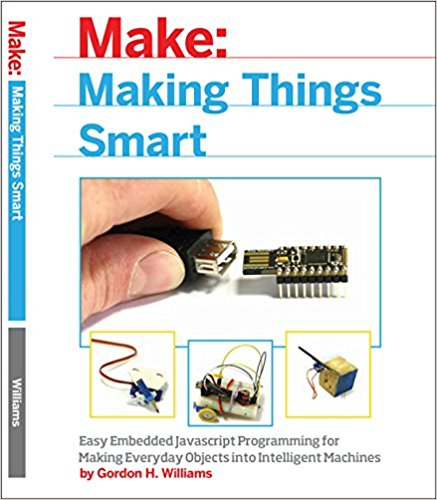
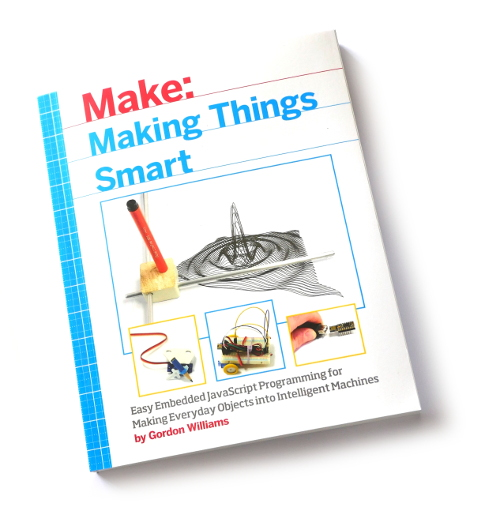
description, and up to date cover photo

diff --git a/README.md b/README.md
@@ -2,25 +2,47 @@
 
 [!['Making Things Smart' book](cover.jpg)](http://shop.oreilly.com/product/0636920031246.do)
 
-Extra information for the ['Making Things Smart' book by Gordon Williams](http://shop.oreilly.com/product/0636920031246.do) (available from [O'Reilly](http://shop.oreilly.com/product/0636920031246.do) and [Amazon](https://www.amazon.co.uk/Making-Things-Smart-Programming-Transforming/dp/1680451898))
+Extra information for the ['Making Things Smart' book by Gordon Williams](http://shop.oreilly.com/product/0636920031246.do) (available from [O'Reilly](http://shop.oreilly.com/product/0636920031246.do) and [Amazon](https://www.amazon.com/gp/product/1680451898/ref=as_li_tl?ie=UTF8&camp=1789&creative=9325&creativeASIN=1680451898&linkCode=as2&tag=espruino-20&linkId=9a3b6e7c3a4f24c8f894e6a039828502))
 
 This code is designed for [Espruino JavaScript Microcontroller boards](http://www.espruino.com/Order)
 
 ## Code Examples
 
-### Chapter 5
+### Chapter 1 - Introduction
+
+An introduction to the book.
+
+### Chapter 2 - What is a Microcontroller?
+
+How is a microcontroller different to a normal PC? What is an ARM, some history of microcontrollers, and how is it different to 8 bit AVR microcontrollers used in many Arduino boards?
+
+### Chapter 3 - Getting Started with Espruino
+
+How to get your Espruino board up and running and issue your first commands.
+
+### Chapter 4 - Getting Started with JavaScript
+
+An introduction to JavaScript for readers with experience of other languages.
+
+### Chapter 5 - Motors
+
+Making motors, and controlling stepper motors.
 
 * [Experiment 4 Part 1](experiment4a.js)
 * [Experiment 4 Part 2](experiment4b.js)
 * [Experiment 5](experiment5.js)
 
-### Chapter 6
+### Chapter 6 - Stroboscopes
+
+Connecting a PC fan to an Espruino, and lighting the fan at exactly the same point at every revolution.
 
 * [Experiment 6](experiment6.js)
 * [Experiment 7](experiment7.js)
 * [Experiment 8](experiment8.js)
 
-### Chapter 7
+### Chapter 7 - John Logie Baird's TV
+
+Using the PC fan with more markers to create a low-resolution TV.
 
 * [Experiment 9 Part 1](experiment9a.js)
 * [Experiment 9 Part 2](experiment9b.js)
@@ -29,29 +51,46 @@ This code is designed for [Espruino JavaScript Microcontroller boards](http://ww
 * [Experiment 10 Part 1](experiment10a.js)
 * [Experiment 10 Part 2](experiment10b.js)
 
-### Chapter 8
+### Chapter 8 - Making a Simple Robot
+
+Make a robot using two continuous-rotation servo motors and a piece of breadboard.
 
 * [Experiment 11](experiment11.js)
 * [Experiment 12](experiment12.js)
 * [Experiment 13](experiment13.js)
 
-### Chapter 9
+### Chapter 9 - Pen Plotter
+
+Using two servo motors, create a simple pen plotter.
 
 * [Experiment 14 Part 1](experiment14a.js)
 * [Experiment 14 Part 2](experiment14b.js)
 * [Experiment 14 Part 3](experiment14c.js)
 * [Experiment 14 Part 4](experiment14d.js)
 
-### Chapter 10
+### Chapter 10 - Digital Pinhole Camera
+
+With two servo motors and a light sensor, create a low-resolution camera.
 
 * [Experiment 15](experiment15.js)
 
-### Chapter 11
+### Chapter 11 - Printer
+
+Create a printer with a cardboard tube, threaded bar, and servo motors.
 
 * [Experiment 16](experiment16.js)
 
 
-### Chapter 13
+### Chapter 12 - Wired Communication
+
+The oscilloscope used in this chapter is available from:
+
+* Try it out: https://espruino.github.io/webaudio-oscilloscope/
+* Source code: https://github.com/espruino/webaudio-oscilloscope
+
+### Chapter 13 - Cutting the Cord: Infrared
+
+Using a web page and some simple hardware to decode infrared remote control signals with the headphone jack and control [Dweet](http://dweet.io/) and [IFTTT](https://ifttt.com/).
 
 * [Experiment 19 Part 1](experiment19a.html)
 * [Experiment 19 Part 2](experiment19b.html)
@@ -59,12 +98,16 @@ This code is designed for [Espruino JavaScript Microcontroller boards](http://ww
 * [Experiment 21](experiment21.html)
 * [Experiment 22](experiment22.html)
 
-### Chapter 14
+### Chapter 14 - Cutting the Cord: Radio Signals
+
+Using a 315Mhz/433Mhz receiver - also conected to the headphone jack - to decode radio signals, and then sending radio signals from an Espruino board.
 
 * [Experiment 25](experiment25.js)
 * [Experiment 26](experiment26.html)
 
-### Chapter 15
+### Chapter 15 - Cutting the Cord: WiFi
+
+Adding ESP8266 WiFi to an Espruino Pico, sending and getting data from the internet, and creating a web server to control things.
 
 * [Experiment 28](experiment28.js)
 * [Experiment 29](experiment29.js)
@@ -72,7 +115,9 @@ This code is designed for [Espruino JavaScript Microcontroller boards](http://ww
 * [Experiment 31](experiment31.js)
 * [Experiment 32](experiment32.js)
 
-### Chapter 16
+### Chapter 16 - Bluetooth Low Energy
+
+Using [Puck.js](http://www.puck-js.com/) to count the number of times a door has opened and transmit it over Bluetooth Low Energy.
 
 * [Experiment 34 Espruino JavaScript](experiment34.js)
 * [Experiment 34 HTML](experiment34.html)
@@ -80,7 +125,9 @@ This code is designed for [Espruino JavaScript Microcontroller boards](http://ww
 * [Experiment 36 Espruino JavaScript](experiment36.js)
 * [Experiment 36 HTML](experiment36.html)
 
-### Chapter 17
+### Chapter 17 - XY Plotter
+
+Building a pen plotter with stepper motors so get much more accurate positioning.
 
 * [Experiment 38 Part 1](experiment38a.js)
 * [Experiment 38 Part 2](experiment38b.js)
@@ -88,12 +135,29 @@ This code is designed for [Espruino JavaScript Microcontroller boards](http://ww
 * [Experiment 38 Part 4 HTML](experiment38d.html)
 * [Experiment 38 Part 5](experiment38e.js)
 
-### Chapter 18
+### Chapter 18 - Internet-connected Plotter
+
+Connecting the pen plotter from Chapter 17 to the internet.
 
 * [Experiment 39 HTML Test page](experiment39.html)
 * [Experiment 39 Part 1](experiment39a.js)
 * [Experiment 39 Part 2](experiment39b.js)
 
+### Chapter 19 - So what now?
+
+Ideas about what to do next.
+
+### Appendix A - Parts and Materials
+
+Where to find/buy the materials used in this book.
+
+### Appendix B - Common Espruino Commands and Variables
+
+A description of common Espruino JavaScript commands.
+
+### Appendix C - Espruino Assembler
+
+Writing ARM Thumb assembly code with Espruino
 
 
 ## Purchasing Information
